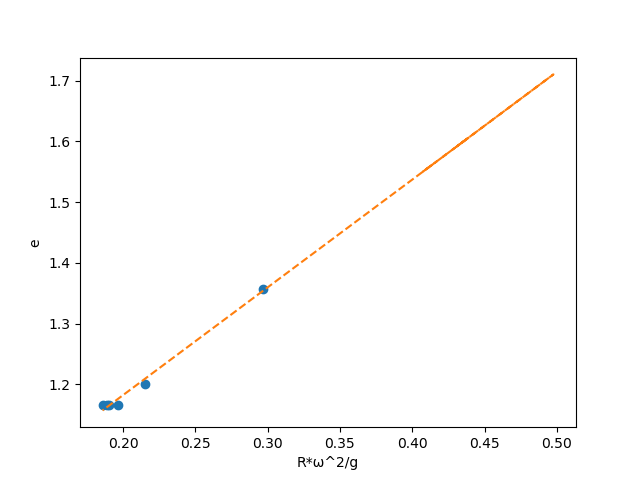
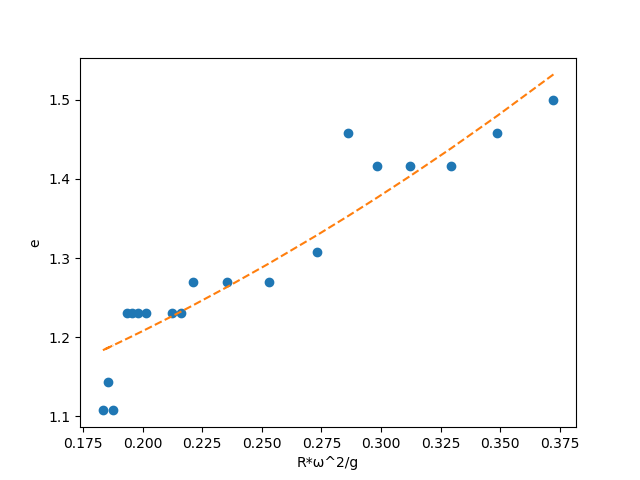
A beautiful line
I rewrote some things and came up with better fits and got more datas.

diff --git a/src/simulate_gravity.py b/src/simulate_gravity.py
@@ -4,12 +4,12 @@ from scipy.special import jv, jn_zeros
 import scipy.optimize as opt
 
 MODE = 'toroid'#'ellpisoid'
-PARAM_SWEEP = 0.6 + np.linspace(0, 1, 36)**2
+PARAM_SWEEP = 0.5 + np.linspace(0, 1, 50)**2
 
-RES = 12
+RES = 16
 MAX_ASPECT_RATIO = 6
 BOUNDARY_EXCESS = 3
-EIGEN_RES = 24
+EIGEN_RES = 32
 INTEGRATION_RES = 8
 
 ρB = 1.1*MAX_ASPECT_RATIO
@@ -62,13 +62,11 @@ for l in PARAM_SWEEP: # angular momentum
 	else:
 		raise Exception()
 
-	while True:
+	for i in range(MAX_ASPECT_RATIO*RES):
 		A = np.sum(PB*planet[np.newaxis, :, :]*dρ*dz, axis=(1,2)) # fourier transform
 		planet_twiddle = np.sum(B*A[:, np.newaxis, np.newaxis], axis=0)
 
 		ɸ = np.sum(B*(A/Λ)[:, np.newaxis, np.newaxis], axis=0) # compute the potential
-		M = 2*np.pi*np.sum(planet*P)*dρ*dz
-		ɸ /= M # normalize so mass = 1
 		g = np.linalg.norm(np.gradient(ɸ, z, ρ), axis=0)
 
 		ρ_min = P[np.nonzero(planet)].min() - dρ/2
@@ -85,13 +83,13 @@ for l in PARAM_SWEEP: # angular momentum
 		plt.axis('equal')
 		plt.pause(1/60)
 
-		edge = np.nonzero(np.linalg.norm(np.gradient(planet), axis=0)) # redistribute the mass
-		num_rocks = int(np.sum(planet[edge])) # this could be run multiple times to get an exact equipotential solution before recomputing the potential,
-		hierarchy = np.argsort(-ɸ[edge]) # but this way is a little stabler, and I think a little faster
-		if np.all(planet[edge[0][hierarchy[:num_rocks]],edge[1][hierarchy[:num_rocks]]] == 1): # terminal condition A:
+		edge = np.nonzero(np.linalg.norm(planet+np.gradient(planet), axis=0)) # redistribute the mass within the planet and adjacent spaces
+		hierarchy = np.argsort(-ɸ[edge]) # but this way is a little stabler, and I think a little faster TODO what if I find an equipotential for real each time
+		cutoff = int(np.sum(planet[edge]))
+		if np.all(planet[edge[0][hierarchy[:cutoff]],edge[1][hierarchy[:cutoff]]] == 1): # terminal condition A:
 			break # if this changes absolutely noting, break
-		planet[edge[0][hierarchy[:num_rocks]],edge[1][hierarchy[:num_rocks]]] = 1 # WHEEEEEEEEEEEEEEEEEEEEEEEEEEEEEEEEEEEEEEEEEEEEEEEEEEEEEEEEEEEEEEEEEEEEEEEEEEEEEEEEEEEEEEEEEEEEEEEEEEEEEEEEEEEEEEEEEEEEEEEEEEEEEEEEEEEEEEEEEEEEEEEEEEEEEEEEEEEEEEEEEEEEEEEEEE
-		planet[edge[0][hierarchy[num_rocks:]],edge[1][hierarchy[num_rocks:]]] = 0 # EEEEEEEEEEEEEEEEEEEEEEEEEEEEEEEEEEEEEEEEEEEEEEEEEEEEEEEEEEEEEEEEEEEEEEEEEEEEEEEEEEEEEEEEEEEEEEEEEEEEEEEEEEEEEEEEEEEEEEEEEEEEEEEEEEEEEEEEEEEEEEEEEEEEEEEEEEEEEEEEEEEEEEEEEEEE
+		planet[edge[0][hierarchy[:cutoff]],edge[1][hierarchy[:cutoff]]] = 1 # WHEEEEEEEEEEEEEEEEEEEEEEEEEEEEEEEEEEEEEEEEEEEEEEEEEEEEEEEEEEEEEEEEEEEEEEEEEEEEEEEEEEEEEEEEEEEEEEEEEEEEEEEEEEEEEEEEEEEEEEEEEEEEEEEEEEEEEEEEEEEEEEEEEEEEEEEEEEEEEEEEEEEEEEEEEE
+		planet[edge[0][hierarchy[cutoff:]],edge[1][hierarchy[cutoff:]]] = 0 # EEEEEEEEEEEEEEEEEEEEEEEEEEEEEEEEEEEEEEEEEEEEEEEEEEEEEEEEEEEEEEEEEEEEEEEEEEEEEEEEEEEEEEEEEEEEEEEEEEEEEEEEEEEEEEEEEEEEEEEEEEEEEEEEEEEEEEEEEEEEEEEEEEEEEEEEEEEEEEEEEEEEEEEEEEEE
 
 		if np.any(np.nonzero(planet[:,-1])): # terminal condition B:
 			ρ_min, ρ_max, z_max = np.nan, np.nan, np.nan # if it has hit the boundary, break
@@ -131,9 +129,9 @@ else:
 	α_fit_params, err = opt.curve_fit(lambda x, a, b: 1 - a*(x-b), rotation_parameters[valid], aspect_ratios[valid])
 	α_fit = 1 - α_fit_params[0]*(rotation_parameters - α_fit_params[1])
 	print("α = 1 - {:.3f}*(Rω^2/g - {:.3f})".format(*α_fit_params))
-	e_fit_params, err = opt.curve_fit(lambda x, a, b: a*x+b, rotation_parameters[valid], elongations[valid])
-	e_fit = e_fit_params[0]*rotation_parameters + e_fit_params[1]
-	print("e = {:.3f}*Rω^2/g + {:.3f}".format(*e_fit_params))
+	e_fit_params, err = opt.curve_fit(lambda x, a, b: 1+b*x+a*x**2, rotation_parameters[valid], elongations[valid])
+	e_fit = 1 + e_fit_params[1]*rotation_parameters + e_fit_params[0]*rotation_parameters**2
+	print("e = 1 + {1:.3f}*Rω^2/g + {0:.3f}*(Rω^2/g)^2".format(*e_fit_params))
 plt.clf()
 plt.plot(rotation_parameters[valid], aspect_ratios[valid], 'o')
 plt.plot(rotation_parameters[valid], α_fit[valid], '--')
